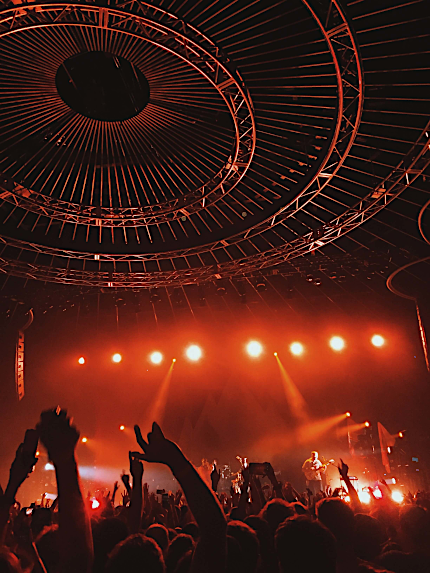
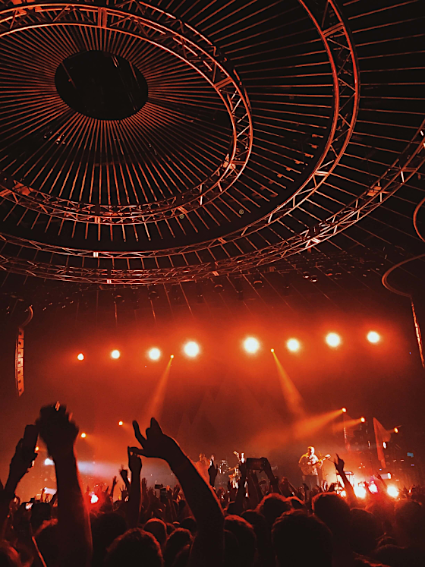
srcset de la gallery et des autres images

diff --git a/index.html b/index.html
@@ -148,6 +148,12 @@
 			<div class="picture left">
 				<img
 					src="./assets/images/nina-carducci.webp"
+					srcset="
+						./assets/images/nina-carducci.webp      1920w,
+						./assets/images/nina-carducci-1440.webp 1440w,
+						./assets/images/nina-carducci-650.webp   650w,
+						./assets/images/nina-carducci-320.webp   320w
+					"
 					alt="Nina Carducci"
 					loading="lazy"
 				/>
@@ -182,63 +188,126 @@
 						data-gallery-tag="Concert"
 						class="gallery-item"
 						src="./assets/images/gallery/concerts/photo-concert-aaron-paul.webp"
+						srcset="
+							./assets/images/gallery/concerts/photo-concert-aaron-paul.webp      1920w,
+							./assets/images/gallery/concerts/photo-concert-aaron-paul-1440.webp 1440w,
+							./assets/images/gallery/concerts/photo-concert-aaron-paul-575.webp   575w,
+							./assets/images/gallery/concerts/photo-concert-aaron-paul-320.webp   320w
+						"
 						alt="Salle de concert remplie"
+						title="Cliquez pour afficher l'image en meilleure qualité"
 						loading="lazy"
 					/>
 					<img
 						data-gallery-tag="Entreprises"
 						class="gallery-item"
 						src="./assets/images/gallery/entreprise/photo-entreprise-ali-morshedlou.webp"
+						srcset="
+							./assets/images/gallery/entreprise/photo-entreprise-ali-morshedlou.webp      1920w,
+							./assets/images/gallery/entreprise/photo-entreprise-ali-morshedlou-1440.webp 1440w,
+							./assets/images/gallery/entreprise/photo-entreprise-ali-morshedlou-575.webp   575w,
+							./assets/images/gallery/entreprise/photo-entreprise-ali-morshedlou-320.webp   320w
+						"
 						alt="Homme bien habillé et bras croisés"
+						title="Cliquez pour afficher l'image en meilleure qualité"
 						loading="lazy"
 					/>
 					<img
 						data-gallery-tag="Entreprises"
 						class="gallery-item"
 						src="./assets/images/gallery/entreprise/photo-entreprise-jason-goodman.webp"
+						srcset="
+							./assets/images/gallery/entreprise/photo-entreprise-jason-goodman.webp      1920w,
+							./assets/images/gallery/entreprise/photo-entreprise-jason-goodman-1440.webp 1440w,
+							./assets/images/gallery/entreprise/photo-entreprise-jason-goodman-575.webp   575w,
+							./assets/images/gallery/entreprise/photo-entreprise-jason-goodman-320.webp   320w
+						"
 						alt="Femme brune qui sourit"
+						title="Cliquez pour afficher l'image en meilleure qualité"
 						loading="lazy"
 					/>
 					<img
 						data-gallery-tag="Mariages"
 						class="gallery-item"
 						src="./assets/images/gallery/mariage/photo-mariage-hannah-busing.webp"
+						srcset="
+							./assets/images/gallery/mariage/photo-mariage-hannah-busing.webp      1920w,
+							./assets/images/gallery/mariage/photo-mariage-hannah-busing-1440.webp 1440w,
+							./assets/images/gallery/mariage/photo-mariage-hannah-busing-575.webp   575w,
+							./assets/images/gallery/mariage/photo-mariage-hannah-busing-320.webp   320w
+						"
 						alt="Mains de 2 personnes qui se tiennent"
+						title="Cliquez pour afficher l'image en meilleure qualité"
 						loading="lazy"
 					/>
 					<img
 						data-gallery-tag="Portrait"
 						class="gallery-item"
 						src="./assets/images/gallery/portraits/photo-portrait-ade-tunji.webp"
+						srcset="
+							./assets/images/gallery/portraits/photo-portrait-ade-tunji.webp      1920w,
+							./assets/images/gallery/portraits/photo-portrait-ade-tunji-1440.webp 1440w,
+							./assets/images/gallery/portraits/photo-portrait-ade-tunji-575.webp   575w,
+							./assets/images/gallery/portraits/photo-portrait-ade-tunji-320.webp   320w
+						"
 						alt="Homme qui ferme les yeux"
+						title="Cliquez pour afficher l'image en meilleure qualité"
 						loading="lazy"
 					/>
 					<img
 						data-gallery-tag="Mariages"
 						class="gallery-item"
 						src="./assets/images/gallery/mariage/photo-mariage-jakob-owens.webp"
+						srcset="
+							./assets/images/gallery/mariage/photo-mariage-jakob-owens.webp      1920w,
+							./assets/images/gallery/mariage/photo-mariage-jakob-owens-1440.webp 1440w,
+							./assets/images/gallery/mariage/photo-mariage-jakob-owens-575.webp   575w,
+							./assets/images/gallery/mariage/photo-mariage-jakob-owens-320.webp   320w
+						"
 						alt="Couple de mariés"
+						title="Cliquez pour afficher l'image en meilleure qualité"
 						loading="lazy"
 					/>
 					<img
 						data-gallery-tag="Portrait"
 						class="gallery-item"
 						src="./assets/images/gallery/portraits/photo-portrait-nino-van-prattenburg.webp"
+						srcset="
+							./assets/images/gallery/portraits/photo-portrait-nino-van-prattenburg.webp      1920w,
+							./assets/images/gallery/portraits/photo-portrait-nino-van-prattenburg-1440.webp 1440w,
+							./assets/images/gallery/portraits/photo-portrait-nino-van-prattenburg-575.webp   575w,
+							./assets/images/gallery/portraits/photo-portrait-nino-van-prattenburg-320.webp   320w
+						"
 						alt="Femme avec des lunettes qui pose derrière un grillage"
+						title="Cliquez pour afficher l'image en meilleure qualité"
 						loading="lazy"
 					/>
 					<img
 						data-gallery-tag="Concert"
 						class="gallery-item"
 						src="./assets/images/gallery/concerts/photo-concert-austin-neill.webp"
+						srcset="
+							./assets/images/gallery/concerts/photo-concert-austin-neill.webp      1920w,
+							./assets/images/gallery/concerts/photo-concert-austin-neill-1440.webp 1440w,
+							./assets/images/gallery/concerts/photo-concert-austin-neill-575.webp   575w,
+							./assets/images/gallery/concerts/photo-concert-austin-neill-320.webp   320w
+						"
 						alt="Chanteur lors d'un concert"
+						title="Cliquez pour afficher l'image en meilleure qualité"
 						loading="lazy"
 					/>
 					<img
 						data-gallery-tag="Entreprises"
 						class="gallery-item"
 						src="./assets/images/gallery/entreprise/photo-entreprise-mateus-campos-felipe.webp"
+						srcset="
+							./assets/images/gallery/entreprise/photo-entreprise-mateus-campos-felipe.webp      1920w,
+							./assets/images/gallery/entreprise/photo-entreprise-mateus-campos-felipe-1440.webp 1440w,
+							./assets/images/gallery/entreprise/photo-entreprise-mateus-campos-felipe-575.webp   575w,
+							./assets/images/gallery/entreprise/photo-entreprise-mateus-campos-felipe-320.webp   320w
+						"
 						alt="Femme devant son ordinateur qui sourit"
+						title="Cliquez pour afficher l'image en meilleure qualité"
 						loading="lazy"
 					/>
 				</div>
@@ -350,6 +419,12 @@
 				<div class="picture right">
 					<img
 						src="./assets/images/appareil-photo.webp"
+						srcset="
+							./assets/images/appareil-photo.webp      1920w,
+							./assets/images/appareil-photo-1000.webp 1000w,
+							./assets/images/appareil-photo-650.webp   650w,
+							./assets/images/appareil-photo-320.webp   320w
+						"
 						alt="Appareil photo"
 						loading="lazy"
 					/>
